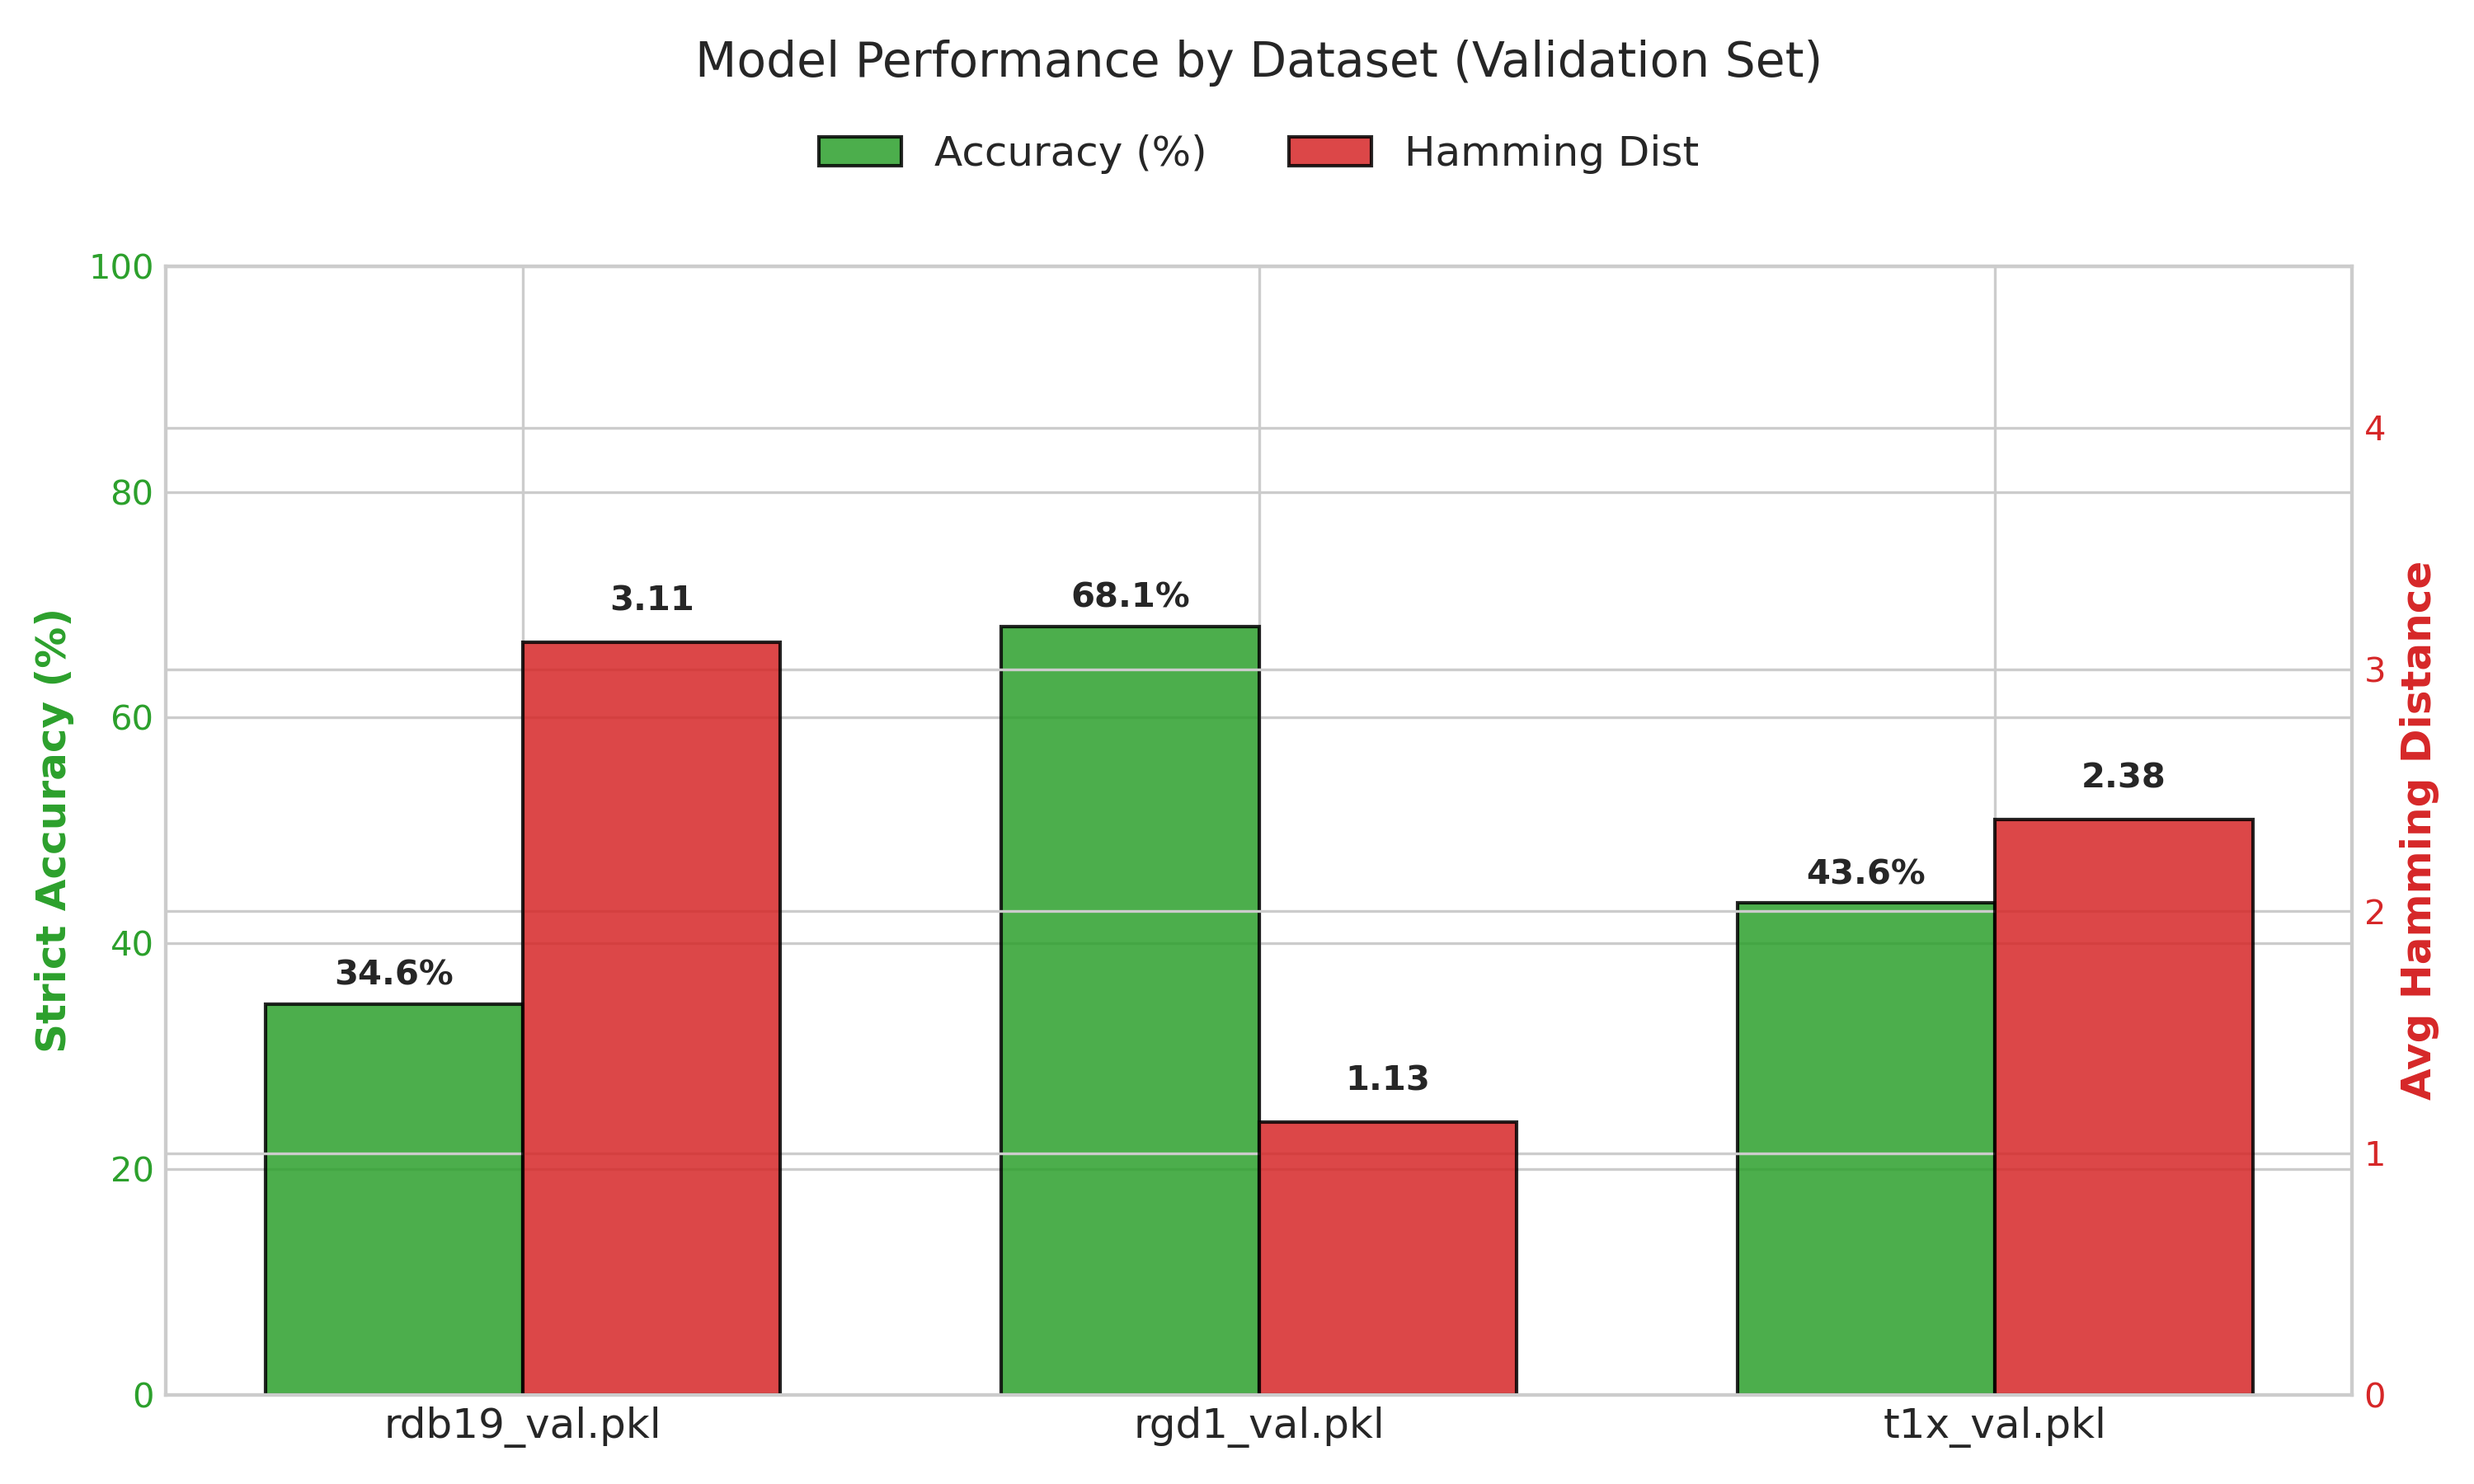
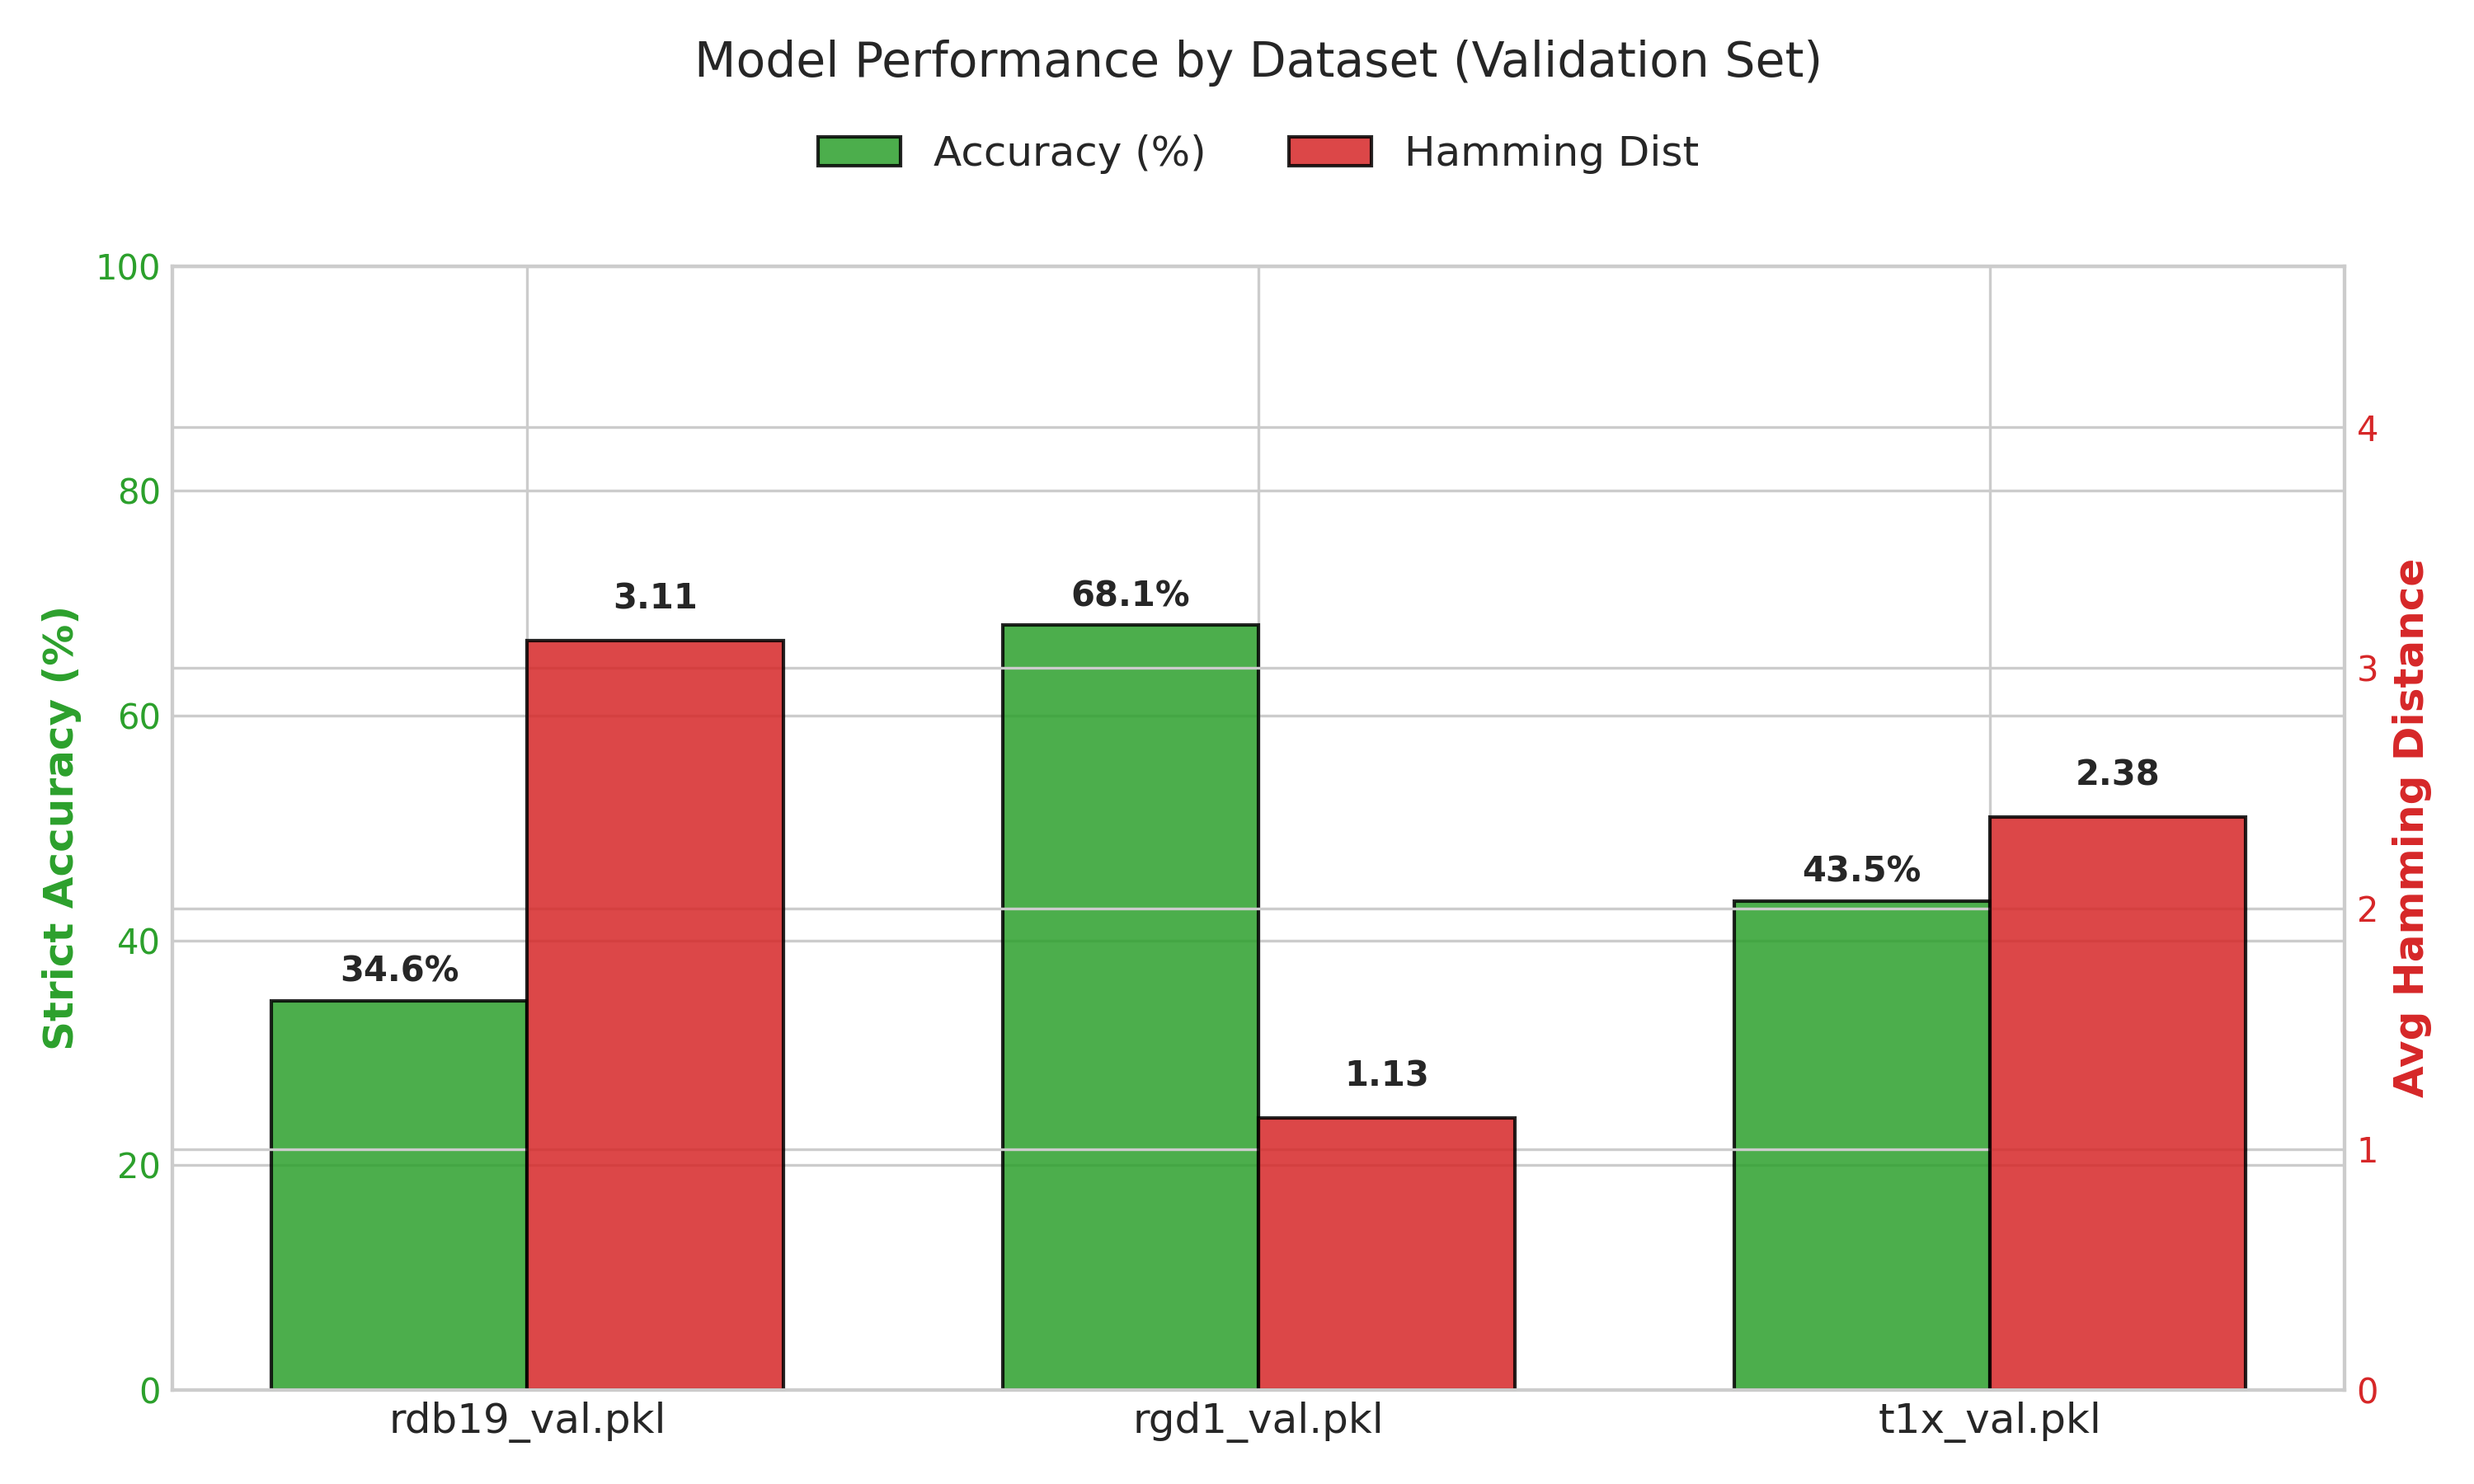
final cleanup

diff --git a/README.md b/README.md
@@ -16,9 +16,9 @@
 rmsd_test/
 ├── data/
 │   ├── raw/                    # 原始数据（下载后）
-│   └── ready/                  # 预处理后的 pkl 数据
-├── models/                     # 训练权重（如 EGNN）
-├── results/                    # 基线与 EGNN 的结果与图表
+│   └── ready/                  # 预处理后的 pkl 数据（可从 Huggingface 下载）
+├── models/                     # 训练权重（可从 Huggingface 下载）
+├── results/                    # 基线结果与图表
 ├── scripts/
 │   ├── data_process/           # 下载、预处理、切分数据
 │   ├── train/                  # 训练脚本（EGNN / Diffusion）
@@ -29,10 +29,11 @@ rmsd_test/
 ## 安装依赖
 
 ```bash
+conda create -n 3d-mol-mapping python=3.10 -y
+conda activate 3d-mol-mapping
 pip install -r requirements.txt
+pip install -e .
 ```
-
-> 如需 GPU 加速，请确保本机 CUDA 与 PyTorch / PyG 版本匹配。
 
 ## 数据准备
 
@@ -107,15 +108,15 @@ python diffusion_eval_hybrid_ddp.py \
 
 ## 测试结果
 
-验证集结果（Acc.↑ / Avg. HD↓ / 耗时↓ ms/mol）：
+验证集结果：Acc. 为原子映射准确率（越高越好）；HD (Hamming Distance) 为汉明距离（越低越好）；ms 为单分子平均推理耗时（越低越好）。
 
-| 方法 | T1x (ID) Acc.↑ | T1x Avg. HD↓ | T1x 耗时↓ (ms/mol) | RGD1 (ID) Acc.↑ | RGD1 Avg. HD↓ | RGD1 耗时↓ (ms/mol) | RDB19-Rad (OOD) Acc.↑ | RDB19-Rad Avg. HD↓ | RDB19-Rad 耗时↓ (ms/mol) |
-|---|---:|---:|---:|---:|---:|---:|---:|---:|---:|
-| Distance | 2.18% | 8.12 | 0.03 | 0.41% | 11.21 | 0.03 | 0.00% | 19.08 | 0.03 |
+| 方法 | T1x (ID) Acc.↑ | HD↓ | ms↓ | RGD1 (ID) Acc.↑ | HD↓ | ms↓ | RDB19 (OOD) Acc.↑ | HD↓ | ms↓ |
+| :--- | :---: | :---: | :---: | :---: | :---: | :---: | :---: | :---: | :---: |
+| Distance | 2.18% | 8.12 | **0.03** | 0.41% | 11.21 | **0.03** | 0.00% | 19.08 | **0.03** |
 | QML | 23.23% | 3.87 | 0.58 | 16.70% | 4.74 | 1.07 | 13.66% | 6.14 | 3.66 |
-| Inertia-Hungarian | 27.00% | 5.14 | 0.42 | 23.47% | 6.88 | 0.48 | 29.73% | 7.35 | 0.50 |
-| EGNN | 43.57% | 2.38 | 0.62 | 68.09% | 1.13 | 0.25 | 34.64% | 3.11 | 1.49 |
-| Diffusion | 75.50% | 0.71 | 16.63 | 85.58% | 0.42 | 16.33 | 57.32% | 1.70 | 17.23 |
+| Inertia-Hungarian | 27.00% | 5.14 | <u>0.42</u> | 23.47% | 6.88 | 0.48 | 29.73% | 7.35 | <u>0.50</u> |
+| EGNN | <u>43.57%</u> | <u>2.38</u> | 0.62 | <u>68.09%</u> | <u>1.13</u> | <u>0.25</u> | <u>34.64%</u> | <u>3.11</u> | 1.49 |
+| **Diffusion (Ours)** | **75.50%** | **0.71** | 16.63 | **85.58%** | **0.42** | 16.33 | **57.32%** | **1.70** | 17.23 |
 
 ## 数据说明
 
@@ -143,7 +144,7 @@ AtomMapping 对象
 
 其中 `mapping_indices[i]` 表示候选分子第 `i` 个原子映射到参考分子中的位置。
 
-## 资源与链接
+## 数据与权重
 
 - [Download Weights and Data](https://huggingface.co/SII-SikoraMi/3d-mol-mapping/tree/main)
 
